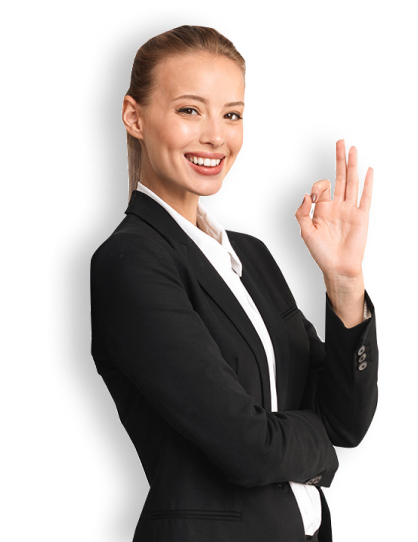
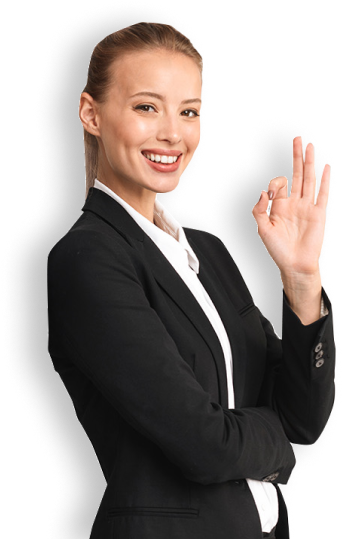
Refactor: отладить респонсив элементов секции Ad

Changed region(s): [[0.0585, 0.0297, 0.9942, 1.0], [0.4094, 0.5046, 0.4971, 0.5937], [0.4971, 0.6234, 0.5263, 0.6531]]

diff --git a/src/components/Ad/Ad.scss b/src/components/Ad/Ad.scss
@@ -15,10 +15,8 @@
     display: flex;
     flex-direction: row;
     justify-content: space-between;
-    gap: 40px;
     max-width: 1400px;
-    padding: 0 20px;
-    margin: 0 auto;
+    padding: 0 140px;
 }
 
 .ad__image {
@@ -41,6 +39,12 @@
     z-index: 0;
 }
 
+@media screen and (max-width: 1124px){
+    .ad__wrap{
+        padding: 0 50px;
+    }
+}
+
 @media screen and (max-width: 984px) {
 
     #womenPhoto {
@@ -48,6 +52,8 @@
     }
 
     .ad__wrap {
+        display: flex;
+        justify-content: space-between;
         flex-direction: column-reverse;
         align-items: center;
         padding: 71px 54px 0 54px;

diff --git a/src/components/Ad/Ad.css b/src/components/Ad/Ad.css
@@ -15,10 +15,8 @@
   display: flex;
   flex-direction: row;
   justify-content: space-between;
-  gap: 40px;
   max-width: 1400px;
-  padding: 0 20px;
-  margin: 0 auto;
+  padding: 0 140px;
 }
 
 .ad__image {
@@ -41,11 +39,18 @@
   z-index: 0;
 }
 
+@media screen and (max-width: 1124px) {
+  .ad__wrap {
+    padding: 0 50px;
+  }
+}
 @media screen and (max-width: 984px) {
   #womenPhoto {
     width: 100%;
   }
   .ad__wrap {
+    display: flex;
+    justify-content: space-between;
     flex-direction: column-reverse;
     align-items: center;
     padding: 71px 54px 0 54px;

diff --git a/src/components/AdForm/AdForm.scss b/src/components/AdForm/AdForm.scss
@@ -127,6 +127,29 @@
 
 }
 
+@media screen and (max-width: 1240px){
+    .adFormTitle{
+        margin: 16px 16px 26px 16px;
+        font-size: 34px;
+        line-height: 36px;
+    }
+    
+    .adFormInputContainer {
+        margin: 16px 16px 16px 0;
+    }
+
+    .adFormBtnContainer {
+        padding: 0 16px 0 16px;
+        margin: 16px 0 0 0;
+    }
+}
+
+@media screen and (max-width: 1124px){
+    .adFormBtnContainer {
+        margin: 0;
+    }
+}
+
 @media screen and (max-width: 984px) {
     .adFormContainer {
         max-width: 660px;

diff --git a/src/components/AdForm/AdForm.css b/src/components/AdForm/AdForm.css
@@ -120,6 +120,25 @@
   color: #0077FF;
 }
 
+@media screen and (max-width: 1240px) {
+  .adFormTitle {
+    margin: 16px 16px 26px 16px;
+    font-size: 34px;
+    line-height: 36px;
+  }
+  .adFormInputContainer {
+    margin: 16px 16px 16px 0;
+  }
+  .adFormBtnContainer {
+    padding: 0 16px 0 16px;
+    margin: 16px 0 0 0;
+  }
+}
+@media screen and (max-width: 1124px) {
+  .adFormBtnContainer {
+    margin: 0;
+  }
+}
 @media screen and (max-width: 984px) {
   .adFormContainer {
     max-width: 660px;
